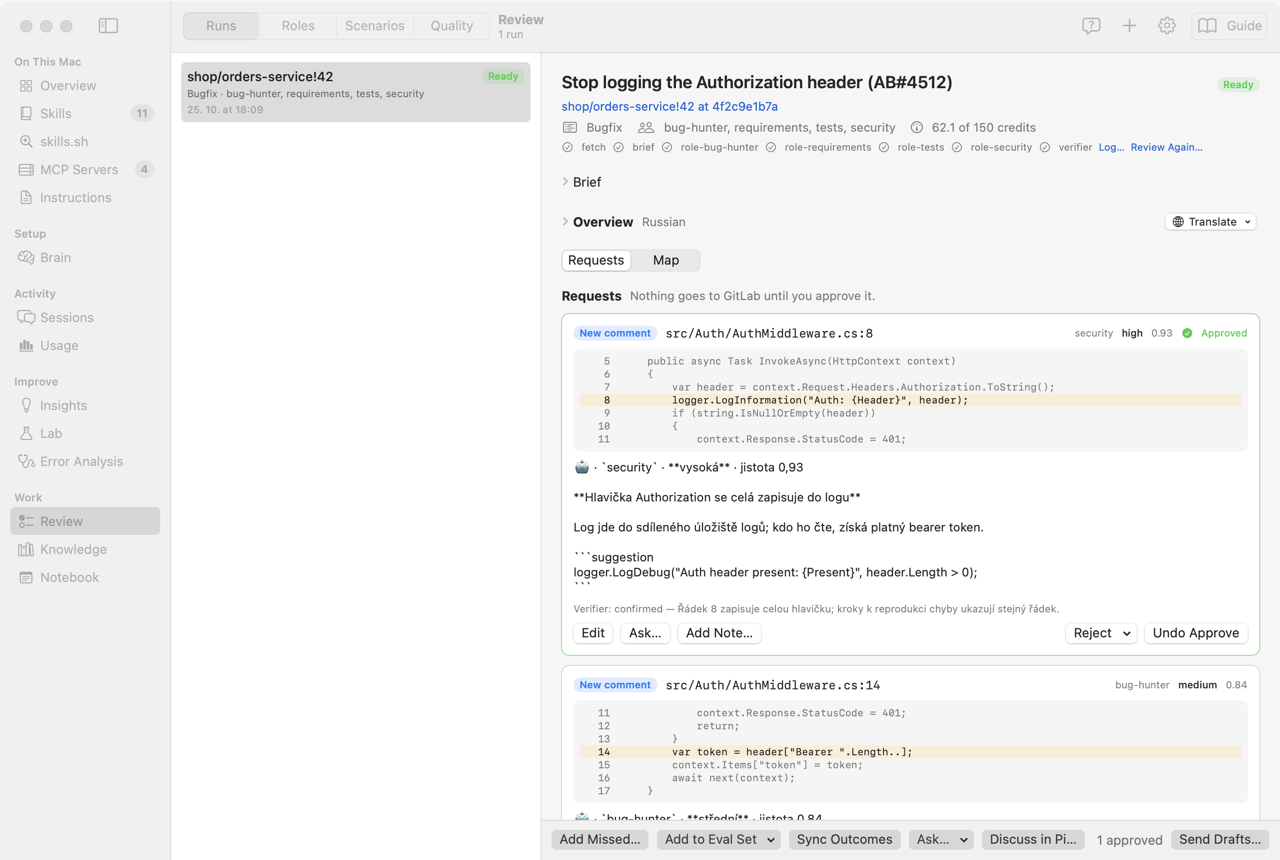
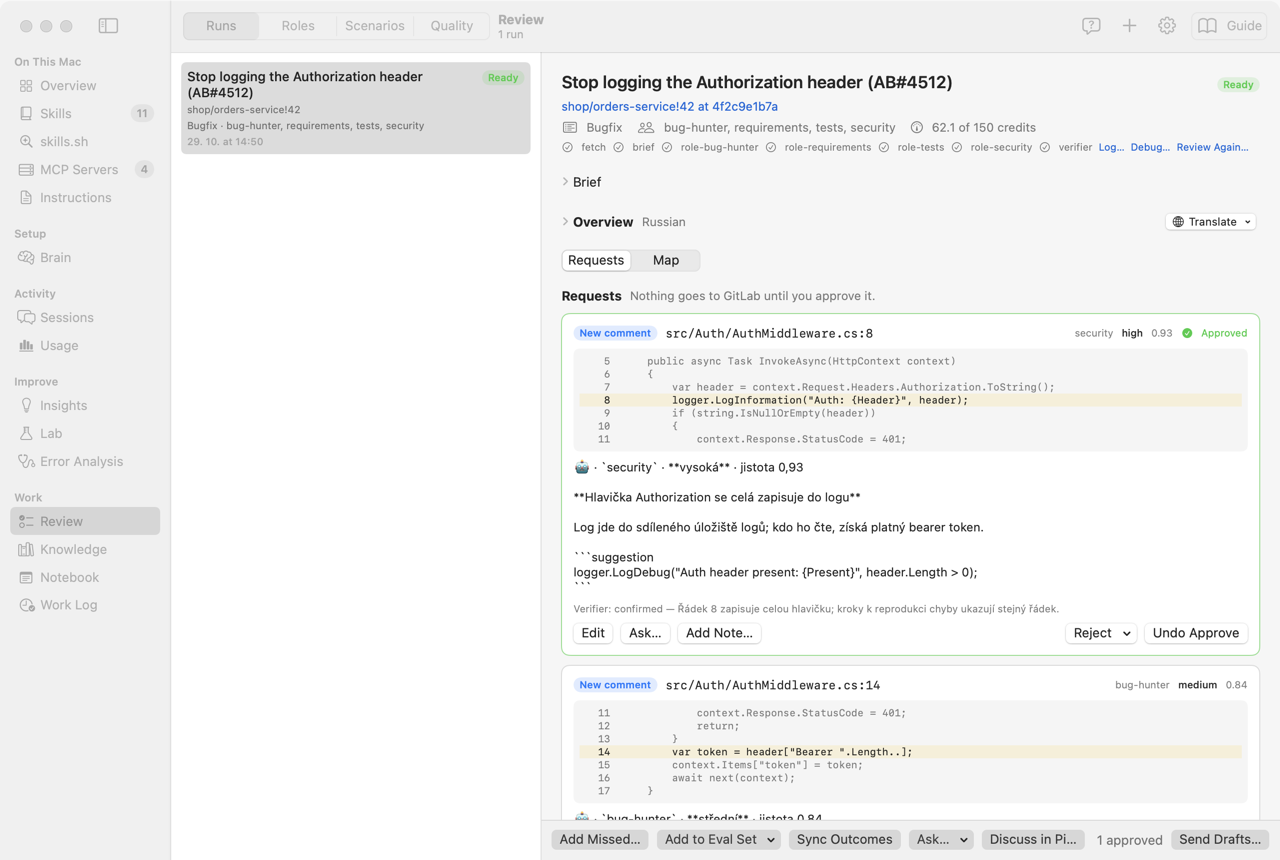
Show the merge request title as the name of a review run
The Review runs list named each run only by its address (team/app!7).
Gather now saves the merge request's title in run.json (for a local
review, the latest commit's subject), scrubbed and cut to one line of
120 characters; older runs take it from their snapshot. The list shows
the title with the address below it, and akit review runs adds it.
GitHub issue #4.

Changed region(s): [[0.125, 0.0605, 0.4375, 0.1814], [0.875, 0.1512, 0.9688, 0.1814], [0.0312, 0.6953, 0.0625, 0.7256]]

diff --git a/AKitCore/Tests/AKitReviewTests/GatherTests.swift b/AKitCore/Tests/AKitReviewTests/GatherTests.swift
@@ -144,6 +144,21 @@ struct ConfigTests {
         #expect(ReviewJSON.read([ContextGap].self, from: folder.appending(path: "gaps.json"))?.count == 4)
     }
 
+    /// A run made before titles were saved gets its title from the snapshot; without one, the address.
+    @Test func olderRunsGetTheirTitleFromTheSnapshot() throws {
+        let home = TempHome()
+        var spec = try PlanTests.spec()
+        let folder = ReviewPaths(home: home.url).run(spec.id)
+        try FileManager.default.createDirectory(at: folder.appending(path: "gitlab"), withIntermediateDirectories: true)
+        spec.title = nil
+        try ReviewJSON.write(spec, to: folder.appending(path: "run.json"))
+        #expect(ReviewRuns.list(home: home.url).first?.spec.name == spec.label)
+        try Data(#"{"mergeRequest": {"title": "  Fix the login\n  timeout  "}}"#.utf8).write(to: folder.appending(path: "gitlab/snapshot.json"))
+        #expect(ReviewRuns.list(home: home.url).first?.spec.title == nil, "only lists people read open the snapshot")
+        #expect(ReviewRuns.list(home: home.url, titles: true).first?.spec.name == "Fix the login timeout")
+        #expect(ReviewRunSpec.readableTitle(String(repeating: "a", count: 300))?.count == 120)
+    }
+
     @Test func workItemReferences() {
         #expect(AzureDevOpsJSON.references(in: ["AB#41 fix", "see WI-7 and AB#41", "feature/AB#9"], pattern: "(?:AB#|WI-)(\\d+)") == [41, 7, 9])
         let pattern = ReviewProfile.Tracker.defaultRegex
@@ -221,6 +236,8 @@ extension ReviewProcessTests {
             #expect(FileManager.default.fileExists(atPath: folder.appending(path: "worktree/src/Auth.swift").path))
             #expect(FileManager.default.fileExists(atPath: folder.appending(path: "roles/review-bug-hunter/SKILL.md").path))
             #expect(ReviewJSON.read(ReviewRunSpec.self, from: folder.appending(path: "run.json"))?.headSHA == head)
+            #expect(ReviewJSON.read(ReviewRunSpec.self, from: folder.appending(path: "run.json"))?.title == "AB#41 Log less in auth")
+            #expect(ReviewRuns.list(home: home.url).first?.spec.name == "AB#41 Log less in auth", "the runs list shows the title")
             #expect(ReviewJSON.read(ReviewRunStatus.self, from: folder.appending(path: "status.json"))?.stage == .gathered)
             let gaps = try #require(ReviewJSON.read([ContextGap].self, from: folder.appending(path: "gaps.json")))
             #expect(gaps.contains { $0.needed == "The diff of big.json" })

diff --git a/AKitCore/Sources/AKitReview/ReviewRun.swift b/AKitCore/Sources/AKitReview/ReviewRun.swift
@@ -124,14 +124,25 @@ public enum ReviewRuns {
         }
     }
 
+    /// Only the title of `gitlab/snapshot.json`.
+    private struct SnapshotTitle: Decodable {
+        struct MergeRequest: Decodable { var title: String }
+        var mergeRequest: MergeRequest
+    }
+
     public static func setStatus(_ stage: ReviewRunStatus.Stage, message: String? = nil, folder: URL) throws {
         try ReviewJSON.write(ReviewRunStatus(stage: stage, message: message), to: folder.appending(path: "status.json"))
     }
 
-    /// Every run on this Mac, newest first.
-    public static func list(home: URL) -> [(id: String, spec: ReviewRunSpec, status: ReviewRunStatus?)] {
+    /// Every run on this Mac, newest first. `titles`: a run made before titles were saved gets
+    /// its title from its snapshot, a large file; only lists people read ask for it.
+    public static func list(home: URL, titles: Bool = false) -> [(id: String, spec: ReviewRunSpec, status: ReviewRunStatus?)] {
         FileWalk.children(of: ReviewPaths(home: home).runs).compactMap { folder in
-            guard let spec = ReviewJSON.read(ReviewRunSpec.self, from: folder.appending(path: "run.json")) else { return nil }
+            guard var spec = ReviewJSON.read(ReviewRunSpec.self, from: folder.appending(path: "run.json")) else { return nil }
+            if titles, spec.title == nil,
+               let title = ReviewJSON.read(SnapshotTitle.self, from: folder.appending(path: "gitlab/snapshot.json"))?.mergeRequest.title {
+                spec.title = ReviewRunSpec.readableTitle(Scrubber.scrub(title).text)
+            }
             return (folder.lastPathComponent, spec, ReviewJSON.read(ReviewRunStatus.self, from: folder.appending(path: "status.json")))
         }.sorted { $0.spec.created > $1.spec.created }
     }

diff --git a/AKit/Review/ReviewView.swift b/AKit/Review/ReviewView.swift
@@ -159,10 +159,13 @@ struct ReviewView: View {
     private var list: some View {
         List(model.runs, selection: Binding(get: { model.run?.id }, set: { model.open($0) })) { run in
             VStack(alignment: .leading, spacing: 3) {
-                HStack {
-                    Text(run.spec.label).fontWeight(.medium).lineLimit(1)
+                HStack(alignment: .firstTextBaseline) {
+                    Text(run.spec.name).fontWeight(.medium).lineLimit(2)
                     Spacer()
                     ReviewStageBadge(status: run.status)
+                }
+                if run.spec.title != nil {
+                    Text(run.spec.label).font(.caption).foregroundStyle(.secondary).lineLimit(1)
                 }
                 Text("\(run.spec.scenario.value.capitalized) · \(run.spec.roles.map(\.id).joined(separator: ", "))")
                     .font(.caption).foregroundStyle(.secondary).lineLimit(1)
@@ -394,7 +397,7 @@ struct ReviewRunDetail: View {
     private var header: some View {
         VStack(alignment: .leading, spacing: 6) {
             HStack(alignment: .firstTextBaseline) {
-                Text(run.snapshot?.mergeRequest.title ?? run.spec.mergeRequest.label).font(.title2.weight(.semibold)).textSelection(.enabled)
+                Text(run.snapshot?.mergeRequest.title ?? run.spec.name).font(.title2.weight(.semibold)).textSelection(.enabled)
                 Spacer()
                 ReviewStageBadge(status: run.status)
             }

diff --git a/AKit/Review/ReviewModel.swift b/AKit/Review/ReviewModel.swift
@@ -57,7 +57,7 @@ final class ReviewModel {
     var home: URL { env.homeDirectory }
 
     func reload(select id: String? = nil) {
-        runs = ReviewRuns.list(home: home).map { Summary(id: $0.id, spec: $0.spec, status: $0.status) }
+        runs = ReviewRuns.list(home: home, titles: true).map { Summary(id: $0.id, spec: $0.spec, status: $0.status) }
         let wanted = id ?? run?.id
         if let wanted, runs.contains(where: { $0.id == wanted }) { open(wanted) } else if run == nil, let first = runs.first { open(first.id) }
     }
@@ -351,7 +351,7 @@ final class ReviewModel {
             await attemptAsync {
                 let script = try await ReviewDiscuss.script(run.folder, env: self.env)
                 let place = try await Launcher.openInteractive(script: script, folder: run.worktree ?? run.folder,
-                                                               title: "Review: \(run.spec.mergeRequest.label)", env: self.env)
+                                                               title: "Review: \(run.spec.name)", env: self.env)
                 self.problem = nil
                 self.discussOpenedIn = place
             }

diff --git a/AKitCore/Sources/AKitReview/ReviewLinked.swift b/AKitCore/Sources/AKitReview/ReviewLinked.swift
@@ -242,6 +242,17 @@ extension ReviewRunSpec {
 
     /// `team/app!7 + team/api!12`.
     public var label: String { mergeRequests.map(\.label).joined(separator: " + ") }
+
+    /// The name people read in the runs list: the title Gather saved, else the address.
+    public var name: String { title ?? label }
+
+    /// A title on one line, at most 120 characters, or nil when it says nothing.
+    static func readableTitle(_ text: String?, limit: Int = 120) -> String? {
+        guard let text else { return nil }
+        let line = text.split(whereSeparator: \.isNewline).map { $0.trimmingCharacters(in: .whitespaces) }.filter { !$0.isEmpty }.joined(separator: " ")
+        if line.isEmpty { return nil }
+        return line.count > limit ? String(line.prefix(limit - 1)).trimmingCharacters(in: .whitespaces) + "…" : line
+    }
 }
 
 extension ReviewGather {

diff --git a/AKitCore/Sources/AKitCommandLine/ReviewCommand.swift b/AKitCore/Sources/AKitCommandLine/ReviewCommand.swift
@@ -237,10 +237,11 @@ extension AKitCLI {
         switch command {
         case "runs":
             try args.finish()
-            let runs = ReviewRuns.list(home: env.homeDirectory)
+            let runs = ReviewRuns.list(home: env.homeDirectory, titles: true)
             if runs.isEmpty { out("No review runs yet.") }
             for run in runs {
-                out("\(run.id)  \(run.spec.label)  \(run.spec.scenario.value)  \(run.status?.stage.rawValue ?? "?")")
+                out("\(run.id)  \(run.spec.label)  \(run.spec.scenario.value)  \(run.status?.stage.rawValue ?? "?")"
+                    + (run.spec.title.map { "  \($0)" } ?? ""))
             }
             return 0
         case "roles", "scenarios":

diff --git a/AKitCore/Sources/AKitReview/ReviewRunSpec.swift b/AKitCore/Sources/AKitReview/ReviewRunSpec.swift
@@ -137,6 +137,9 @@ public struct ReviewRunSpec: Codable, Sendable, Hashable {
     public var id: String
     public var created: Date
     public var mergeRequest: MergeRequestRef
+    /// Filled by Gather: the merge request's title, or for a local review the latest commit's
+    /// subject; nil in runs made before 2026-10-29 and before Gather ends.
+    public var title: String?
     /// The project profile's slug; nil when none matched.
     public var project: String?
     public var scenario: Sourced<String>

diff --git a/AKitCore/Sources/AKitReview/Gather.swift b/AKitCore/Sources/AKitReview/Gather.swift
@@ -124,6 +124,7 @@ public enum ReviewGather {
         }
         let head = refs.headSHA
         spec.headSHA = head
+        spec.title = ReviewRunSpec.readableTitle(Scrubber.scrub(mr.title, own: scrub).text)
         // The developer's own change (a local review, or a merge request they wrote) gets the
         // self-review limits (R33); a colleague's keeps the posting limits.
         spec.applyMode(own: local != nil || (!snapshot.user.isEmpty && snapshot.mergeRequest.author == snapshot.user))

diff --git a/docs/guides/review.ru.md b/docs/guides/review.ru.md
@@ -37,7 +37,7 @@
 - «Хочу ревью своей ветки до MR» → **New Review…** → **Local Workspace** или `akit review local .` в терминале worktree (см. [ревью локальной копии](#local)).
 - «Агенту нужен макет из Figma или страница вики» → поля **Context for this review**, **Links** и блок **Extra servers** в **New Review…** (см. [контекст ревью](#context)).
 
-![Экран Review, страница Runs: слева список с ревью shop/orders-service!42, меткой Ready и строкой Bugfix · bug-hunter, requirements, tests, security; справа заголовок Stop logging the Authorization header (AB#4512), ссылка shop/orders-service!42 at 4f2c9e1b7a, строка 62.1 of 150 credits и метки проходов fetch, brief, role-bug-hunter, role-requirements, role-tests, role-security, verifier, кнопки Log… и Review Again…; свёрнутый блок Overview с меткой Russian и кнопкой Translate; переключатель Requests | Map; блок Requests с подписью Nothing goes to GitLab until you approve it; карточка New comment src/Auth/AuthMiddleware.cs:8 с меткой Approved, кодом вокруг строки 8, чешским текстом комментария (Hlavička Authorization se celá zapisuje do logu) строкой Verifier: confirmed и кнопками Edit, Ask…, Add Note…, Reject и Undo Approve; внизу кнопки Add Missed…, Add to Eval Set, Sync Outcomes, меню Ask…, Discuss in Pi…, счётчик 1 approved и Send Drafts…](images/review-run.png)
+![Экран Review, страница Runs: слева список с ревью Stop logging the Authorization header (AB#4512), меткой Ready, адресом shop/orders-service!42 и строкой Bugfix · bug-hunter, requirements, tests, security; справа заголовок Stop logging the Authorization header (AB#4512), ссылка shop/orders-service!42 at 4f2c9e1b7a, строка 62.1 of 150 credits и метки проходов fetch, brief, role-bug-hunter, role-requirements, role-tests, role-security, verifier, кнопки Log… и Review Again…; свёрнутый блок Overview с меткой Russian и кнопкой Translate; переключатель Requests | Map; блок Requests с подписью Nothing goes to GitLab until you approve it; карточка New comment src/Auth/AuthMiddleware.cs:8 с меткой Approved, кодом вокруг строки 8, чешским текстом комментария (Hlavička Authorization se celá zapisuje do logu) строкой Verifier: confirmed и кнопками Edit, Ask…, Add Note…, Reject и Undo Approve; внизу кнопки Add Missed…, Add to Eval Set, Sync Outcomes, меню Ask…, Discuss in Pi…, счётчик 1 approved и Send Drafts…](images/review-run.png)
 
 ### Зачем это нужно
 <!-- section: overview-why -->
@@ -552,7 +552,7 @@ default_scenario: bugfix
 - `--anyway` — продолжать, если MR в draft, pipeline упал или этот коммит уже проверен.
 - `--note TEXT`, `--note-file PATH`, `--link URL`, `--extra-server NAME` — контекст ревью (см. [из командной строки](#context-cli)).
 - `akit review passes RUN [--anyway]` — проходы снова на собранном ревью.
-- `akit review runs` — все ревью на этом Mac.
+- `akit review runs` — все ревью на этом Mac: id, адрес MR, сценарий, этап и заголовок MR.
 
 Пример: `akit review https://gitlab.example.com/shop/orders-service/-/merge_requests/42 --wi 4512 --scenario bugfix --role +security`.
 
@@ -966,7 +966,7 @@ To review: commits and uncommitted changes.
 - **Review Settings…** (шестерёнка) — MCP-серверы Pi, как их видит ревью, и профили проектов.
 - **Guide** — это руководство.
 
-Слева список ревью. В строке: MR (например «shop/orders-service!42»), метка этапа, сценарий и роли, дата.
+Слева список ревью. В строке: заголовок MR (например «Stop logging the Authorization header (AB#4512)»), метка этапа, адрес MR («shop/orders-service!42»), сценарий и роли, дата. У локального ревью заголовок — тема последнего коммита. Пока AKit не прочитал MR, вместо заголовка стоит адрес.
 
 Справа одно ревью сверху вниз:
 
